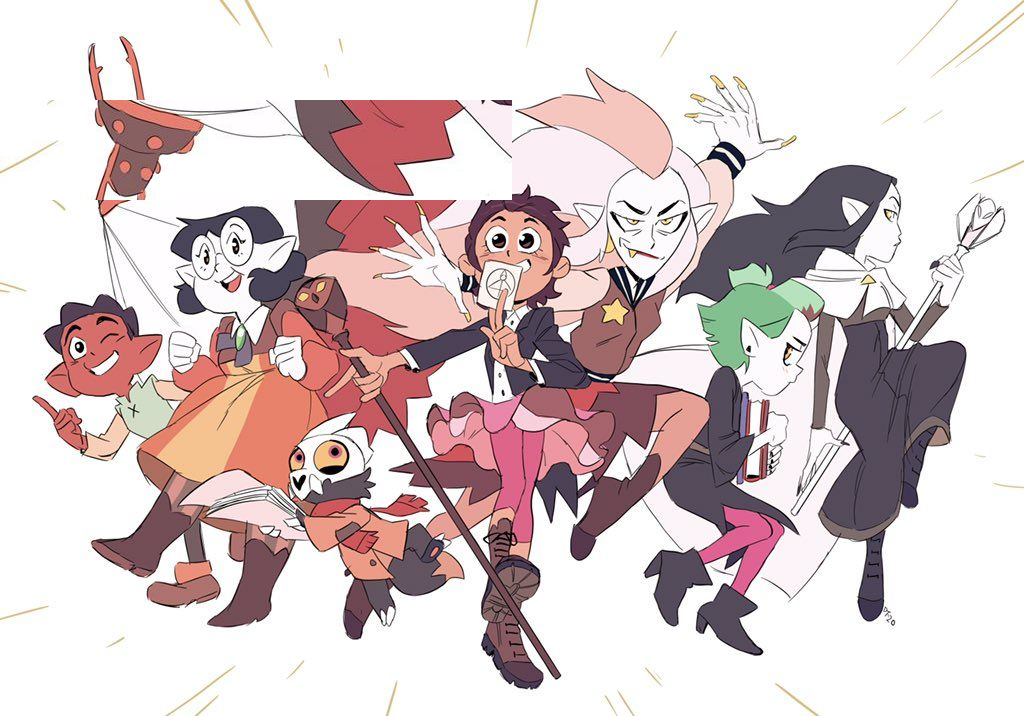
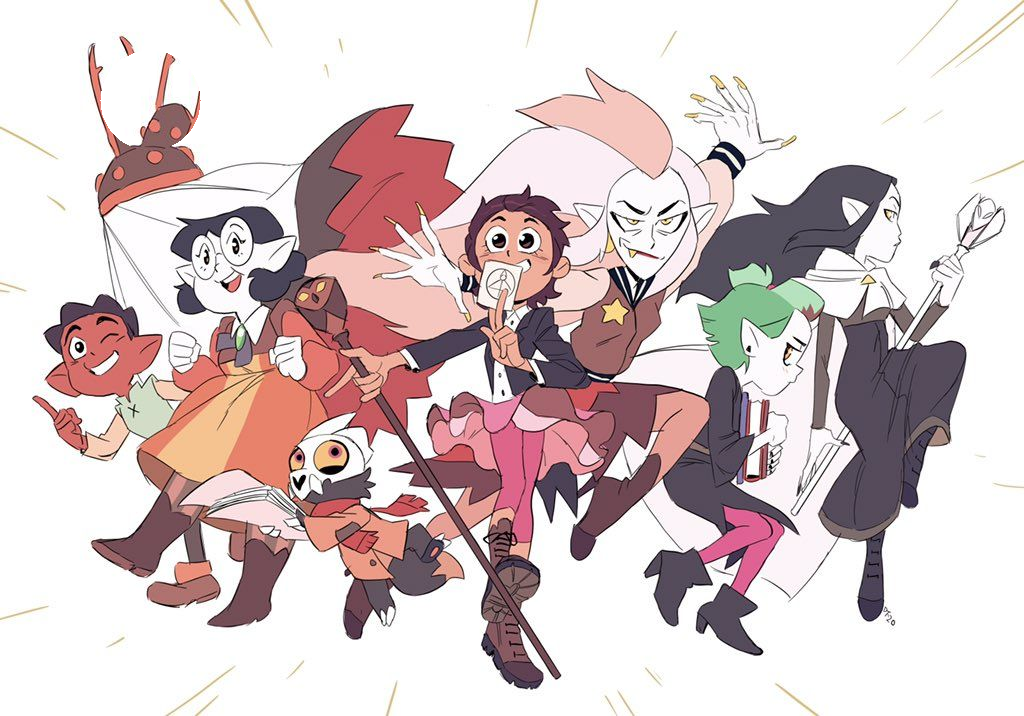
Flip correcte

Changed region(s): [[0.0938, 0.0615, 0.5, 0.2765], [0.0, 0.1844, 0.0625, 0.2458]]

diff --git a/src/metier/Paint.java b/src/metier/Paint.java
@@ -154,8 +154,8 @@ public class Paint
 	private boolean imageIn (int x, int y, Image img)
 	{
 		return x >= img.getX() && x < img.getX() + img.getImgWidth () && 
-		       y >= img.getY() && y < img.getY() + img.getImgHeight() &&
-			   !isTrans(img.getImg().getRGB(x, y));
+			y >= img.getY() && y < img.getY() + img.getImgHeight() &&
+			!isTrans(img.getImg().getRGB(x, y));
 	}
 
 	public static boolean isTrans(int rgb)
@@ -193,9 +193,9 @@ public class Paint
 			Point p = file.remove();
 
 			if ( p.x() >= 0 && p.x() < bi.getWidth  () && p.y() >= 0 && p.y() < bi.getHeight () &&
-			    //  colorOrig == ( bi.getRGB(p.x(), p.y() ) & 0xFFFFFF)
+				//  colorOrig == ( bi.getRGB(p.x(), p.y() ) & 0xFFFFFF)
 				sameColor(colorOrig, ( bi.getRGB(p.x(), p.y() ) & 0xFFFFFF), distance)
-			   )
+			)
 			{
 				bi.setRGB ( p.x(), p.y(), argb );
 				
@@ -306,8 +306,8 @@ public class Paint
 			for (int y = yCenter - radius; y < yCenter + radius; y++) 
 			{
 				if (x > 0 && x < this.width && y > 0 && y < this.height && 
-				    radius >= Math.sqrt( Math.pow( x - xCenter, 2 ) + Math.pow( y - yCenter, 2 ) ) 
-				   )
+					radius >= Math.sqrt( Math.pow( x - xCenter, 2 ) + Math.pow( y - yCenter, 2 ) ) 
+				)
 				{
 					Image img = this.getClickedImage(x, y);
 					if (img != null) {
@@ -408,11 +408,11 @@ public class Paint
 					Color colBD = new Color(img.getRGB(x2, y2));
 	
 					int r = (int) (wHG * colHG.getRed()   + wBG * colBG.getRed()   +
-								   wHD * colHD.getRed()   + wBD * colBD.getRed());
+								wHD * colHD.getRed()   + wBD * colBD.getRed());
 					int g = (int) (wHG * colHG.getGreen() + wBG * colBG.getGreen() +
-								   wHD * colHD.getGreen() + wBD * colBD.getGreen());
+								wHD * colHD.getGreen() + wBD * colBD.getGreen());
 					int b = (int) (wHG * colHG.getBlue()  + wBG * colBG.getBlue()  +
-								   wHD * colHD.getBlue()  + wBD * colBD.getBlue());
+								wHD * colHD.getBlue()  + wBD * colBD.getBlue());
 	
 					rotatedImg.setRGB(rX, rY, new Color(r, g, b).getRGB());
 				}
@@ -488,23 +488,21 @@ public class Paint
 	 * @param xEnd
 	 * @param yEnd
 	 */
-	public void flipHorizontal(int xCenter, int yCenter, int radius) 
-	{
-		for (int x = xCenter - radius; x < xCenter + radius; x++) {
-			for (int y = yCenter - radius; y < yCenter + radius; y++) 
-			{
-				if (x > 0 && x < this.width && y > 0 && y < this.height && 
-				    radius >= Math.sqrt( Math.pow( x - xCenter, 2 ) + Math.pow( y - yCenter, 2 ) ) 
-				   )
-				{
-					Image img = this.getClickedImage(x, y);
+	public void flipHorizontal(int xCenter, int yCenter, int radius) {
+		for (int x = xCenter - radius; x < xCenter; x++) {
+			for (int y = yCenter - radius; y <= yCenter + radius; y++) {
+				if (x >= 0 && x < this.width && y >= 0 && y < this.height &&
+					Math.sqrt(Math.pow(x - xCenter, 2) + Math.pow(y - yCenter, 2)) <= radius) {
+					
+					Image img = getClickedImage(x, y);
 					if (img != null) {
 						BufferedImage bi = img.getImg();
-	
-						int pixelColor = bi.getRGB(x, y) & 0xFFFFFF;
-						int nouvVal = Paint.luminosite(new Color(pixelColor), var); 
-						Color newColor = new Color(nouvVal);
-						bi.setRGB(x, y, newColor.getRGB()); 
+						int mirrorX = xCenter + (xCenter - x);
+						if (mirrorX >= 0 && mirrorX < this.width) {
+							int temp = bi.getRGB(x, y);
+							bi.setRGB(x, y, bi.getRGB(mirrorX, y));
+							bi.setRGB(mirrorX, y, temp);
+						}
 					}
 				}
 			}
@@ -537,7 +535,7 @@ public class Paint
 	}
 	
 	/**
-	 * Flip horizontal d'une zone rectanculaire.
+	 * Flip vertical d'une zone rectanculaire.
 	 * @param xStart
 	 * @param yStart
 	 * @param xEnd
@@ -563,7 +561,39 @@ public class Paint
 		}
 	}
 	
+	/**
+	 * Flip vertical d'une zone circulaire. 
+	 * @param xCenter
+	 * @param yCenter
+	 * @param radius
+	 */
+	public void flipVertical(int xCenter, int yCenter, int radius) 
+	{
+		for (int x = xCenter - radius; x <= xCenter + radius; x++) 
+		{
+			for (int y = yCenter - radius; y < yCenter; y++) 
+			{
+				if (x >= 0 && x < this.width && y >= 0 && y < this.height &&
+					Math.sqrt(Math.pow(x - xCenter, 2) + Math.pow(y - yCenter, 2)) <= radius) 
+				{
+					Image img = getClickedImage(x, y);
 
+					if (img != null) 
+					{
+						BufferedImage bi = img.getImg();
+						int mirrorY = yCenter + (yCenter - y);
+						if (mirrorY >= 0 && mirrorY < this.height) 
+						{
+							int temp = bi.getRGB(x, y);
+							bi.setRGB(x, y, bi.getRGB(x, mirrorY));
+							bi.setRGB(x, mirrorY, temp);
+						}
+					}
+				}
+			}
+		}
+	}
+	
 
 
 
@@ -590,7 +620,8 @@ public class Paint
 			// p.setLuminosite(150,150, 50, -100);
 			// p.retourner(img, 30);
 
-			p.flipVertical(0, 100, img.getImgWidth() / 2, 300);
+			p.flipHorizontal(150, 100, 50);
+			p.flipVertical(150, 100, 50);
 
 			ImageIO.write(p.getImage(),"png",new File ("fin.png") );
 
